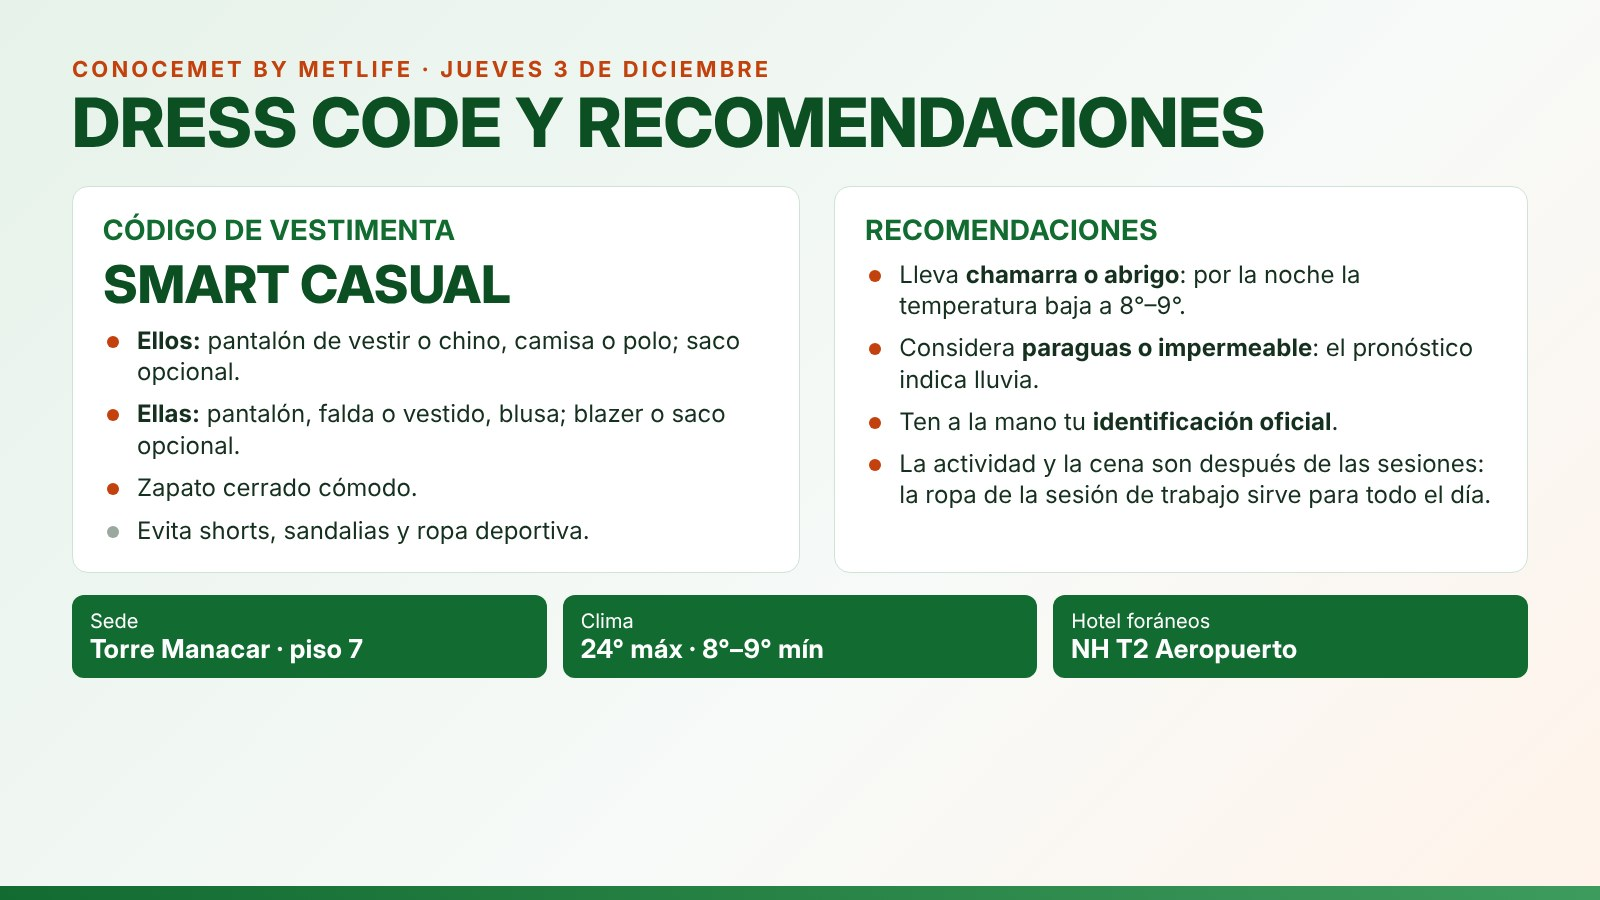
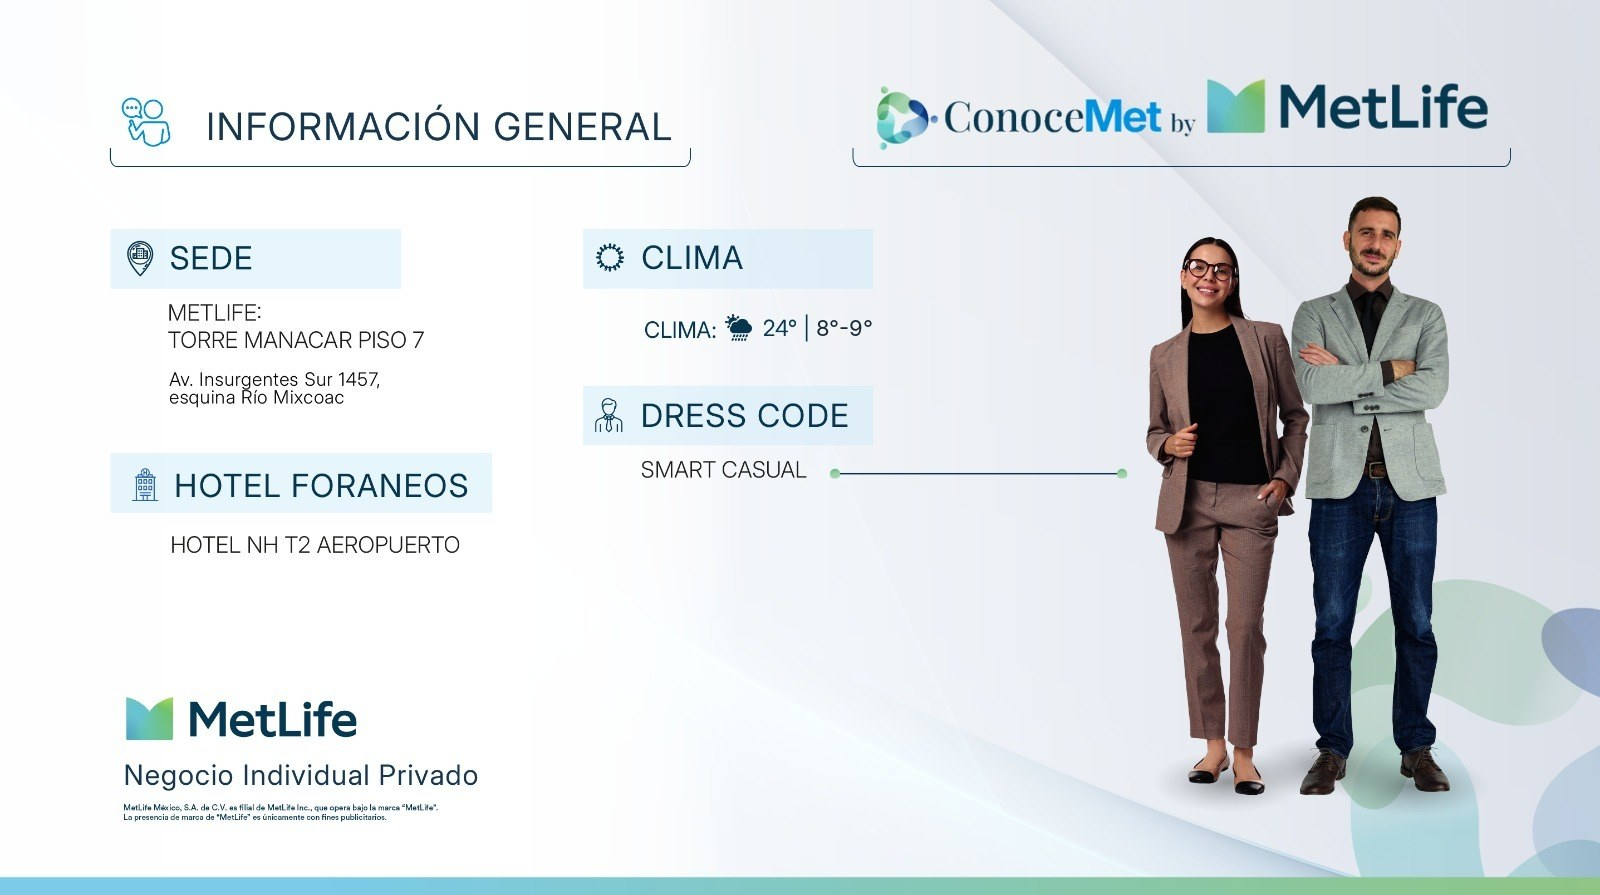
ConoceMet: imágenes oficiales de agenda e información general (v410)
Claude-Session: https://claude.ai/code/session_01ENAiDXCYuRKfQutthDs1fY

diff --git a/index.html b/index.html
@@ -904,7 +904,7 @@ main a:not([class]):hover,.foot a:hover{color:var(--acc)!important;text-decorati
     </div>
   </section>
   <section class="agenda ag-compact" id="agenda" aria-labelledby="ag-t">
-    <div class="ag-head"><div><h2 id="ag-t">Agenda del evento</h2><p>ConoceMet by MetLife · Torre Manacar, CDMX · Horarios en hora del centro de México · Clima 🌦 24° / 8°–9° · Dress code: smart casual</p></div><div class="ag-btns"><a class="ag-pdf" href="agenda-conocemet.jpg?v=409" id="ag-open">📄 Ver agenda completa</a><a class="ag-pdf" href="dresscode-conocemet.jpg?v=409" data-agv="dc">👕 Dress code y recomendaciones</a></div></div>
+    <div class="ag-head"><div><h2 id="ag-t">Agenda del evento</h2><p>ConoceMet by MetLife · Torre Manacar, CDMX · Horarios en hora del centro de México · Clima 🌦 24° / 8°–9° · Dress code: smart casual</p></div><div class="ag-btns"><a class="ag-pdf" href="agenda-conocemet.jpg?v=410" id="ag-open">📄 Ver agenda completa</a><a class="ag-pdf" href="dresscode-conocemet.jpg?v=410" data-agv="dc">👕 Información general y dress code</a></div></div>
     <div class="ag-tabs" role="tablist" aria-label="Días del evento">
       <button role="tab" id="tab-3" aria-controls="day-3" data-day="3"><b>3</b><span>Jueves</span></button>
     </div>
@@ -1516,8 +1516,8 @@ function waTxt(r){
   if(!tierra) L.push('_Horarios de vuelo en hora local de cada aeropuerto._');
   if(!tierra){ L.push('', '📌 *PUNTOS IMPORTANTES DE SU VUELO*'); document.querySelectorAll('section.important li').forEach(li => L.push('• ' + li.innerText.trim())); }
   L.push('',
-    '🗓 *Agenda del evento:*', base + 'agenda-conocemet.jpg?v=409', '',
-    '👕 *Dress code y recomendaciones:*', base + 'dresscode-conocemet.jpg?v=409', '',
+    '🗓 *Agenda del evento:*', base + 'agenda-conocemet.jpg?v=410', '',
+    '👕 *Información general y dress code:*', base + 'dresscode-conocemet.jpg?v=410', '',
     '🔎 *Consulta tu reserva cuando quieras:*', base, '',
     '*Importante.-* ' + impTxt(r).replace('MetLife', '*MetLife*'), '',
     'Le enviamos un cordial saludo deseándole un buen viaje y nos reiteramos a sus órdenes.', '', '*_Equipo de Coordinación de Viajes_*');
@@ -1960,8 +1960,8 @@ function agvClose(){ AGV_R = null; $('#agv').classList.remove('vue'); $('#agv').
 document.addEventListener('click', e => { const a = e.target.closest('#ag-open, [data-agv]'); if(!a) return; e.preventDefault();
   const img = $('#agv-img'), dc = a.dataset.agv === 'dc'; AGV_R = null; $('#agv').classList.remove('vue'); $('#agv-dl').hidden = true; $('#agv-wait').hidden = true; img.hidden = false;
   img.alt = dc ? 'Dress code y recomendaciones de ConoceMet by MetLife' : 'Agenda de ConoceMet by MetLife, jueves 3 de diciembre';
-  img.src = dc ? 'dresscode-conocemet.jpg?v=409' : 'agenda-conocemet.jpg?v=409';
-  agvShow(dc ? 'Dress code y recomendaciones' : 'Agenda del evento'); });
+  img.src = dc ? 'dresscode-conocemet.jpg?v=410' : 'agenda-conocemet.jpg?v=410';
+  agvShow(dc ? 'Información general y dress code' : 'Agenda del evento'); });
 $('#agv-img').addEventListener('click', e => { const bd = $('.agv-body'), r = e.target.getBoundingClientRect(), fx = (e.clientX - r.left) / r.width, fy = (e.clientY - r.top) / r.height;
   bd.classList.toggle('zoom'); if(bd.classList.contains('zoom')){ const im = e.target; bd.scrollLeft = fx * im.offsetWidth - bd.clientWidth / 2; bd.scrollTop = fy * im.offsetHeight - bd.clientHeight / 2; } });
 $('#agv-back').addEventListener('click', () => { if(history.state && history.state.agv) history.back(); else agvClose(); });
@@ -2839,7 +2839,7 @@ $('#creset').addEventListener('click', async () => {
   window.addEventListener('resize', setH);
   if(window.ResizeObserver) new ResizeObserver(setH).observe(h); setH(); requestAnimationFrame(setH);
 })();
-const APP_V = 409;
+const APP_V = 410;
 const PIN_KEY = 'manifiesto-pin';
 const OPEN_PIN = 'hermosillo'; // acceso abierto: la página ya no pide PIN. Para volver a pedirlo, dejar vacío ('').
 try{ localStorage.removeItem(PIN_KEY); }catch(e){}

diff --git a/actualizar.html b/actualizar.html
@@ -67,7 +67,7 @@ document.getElementById('f').addEventListener('change', async e => {
     const rows = parseConcentrado(grid);
     const now = new Date();
     out = { actualizado: `${now.getFullYear()}-${pad(now.getMonth()+1)}-${pad(now.getDate())} ${pad(now.getHours())}:${pad(now.getMinutes())}`,
-            app: 409, evento: clean(document.getElementById('ev').value) || 'Manifiesto Evento CC IP Foráneo', filas: rows };
+            app: 410, evento: clean(document.getElementById('ev').value) || 'Manifiesto Evento CC IP Foráneo', filas: rows };
     const conf = rows.filter(r => /CONFIRM/.test(r.st)).length;
     msg.className = 'ok'; msg.textContent = `Listo: ${rows.length} invitados (${conf} confirmados, ${rows.length-conf} pendientes), hoja "${name}".`;
     document.getElementById('go').disabled = false;
